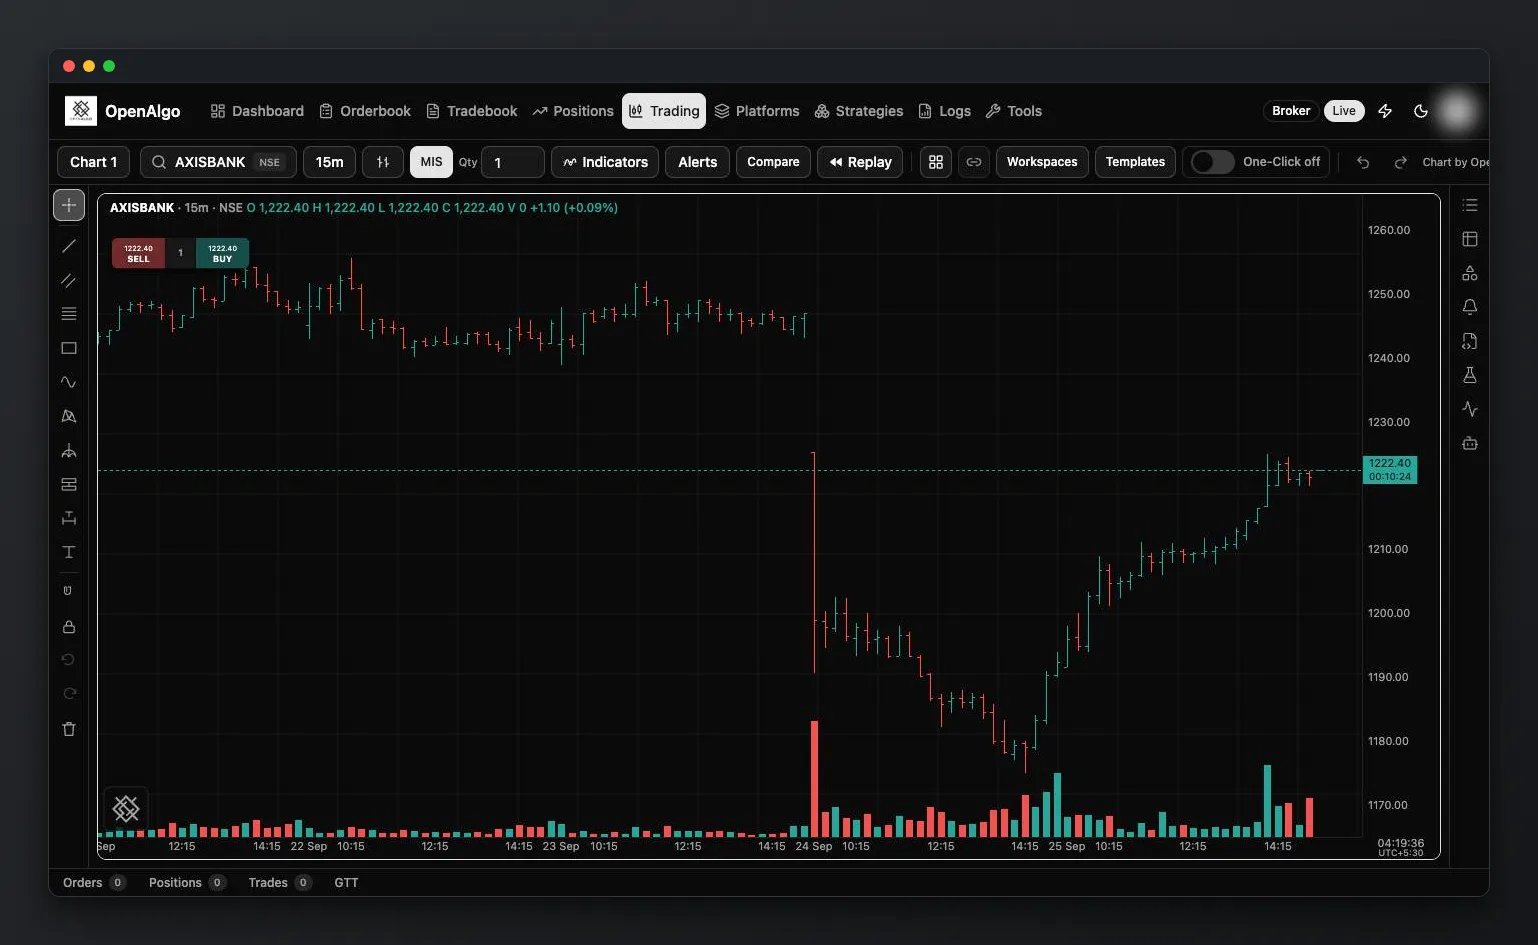
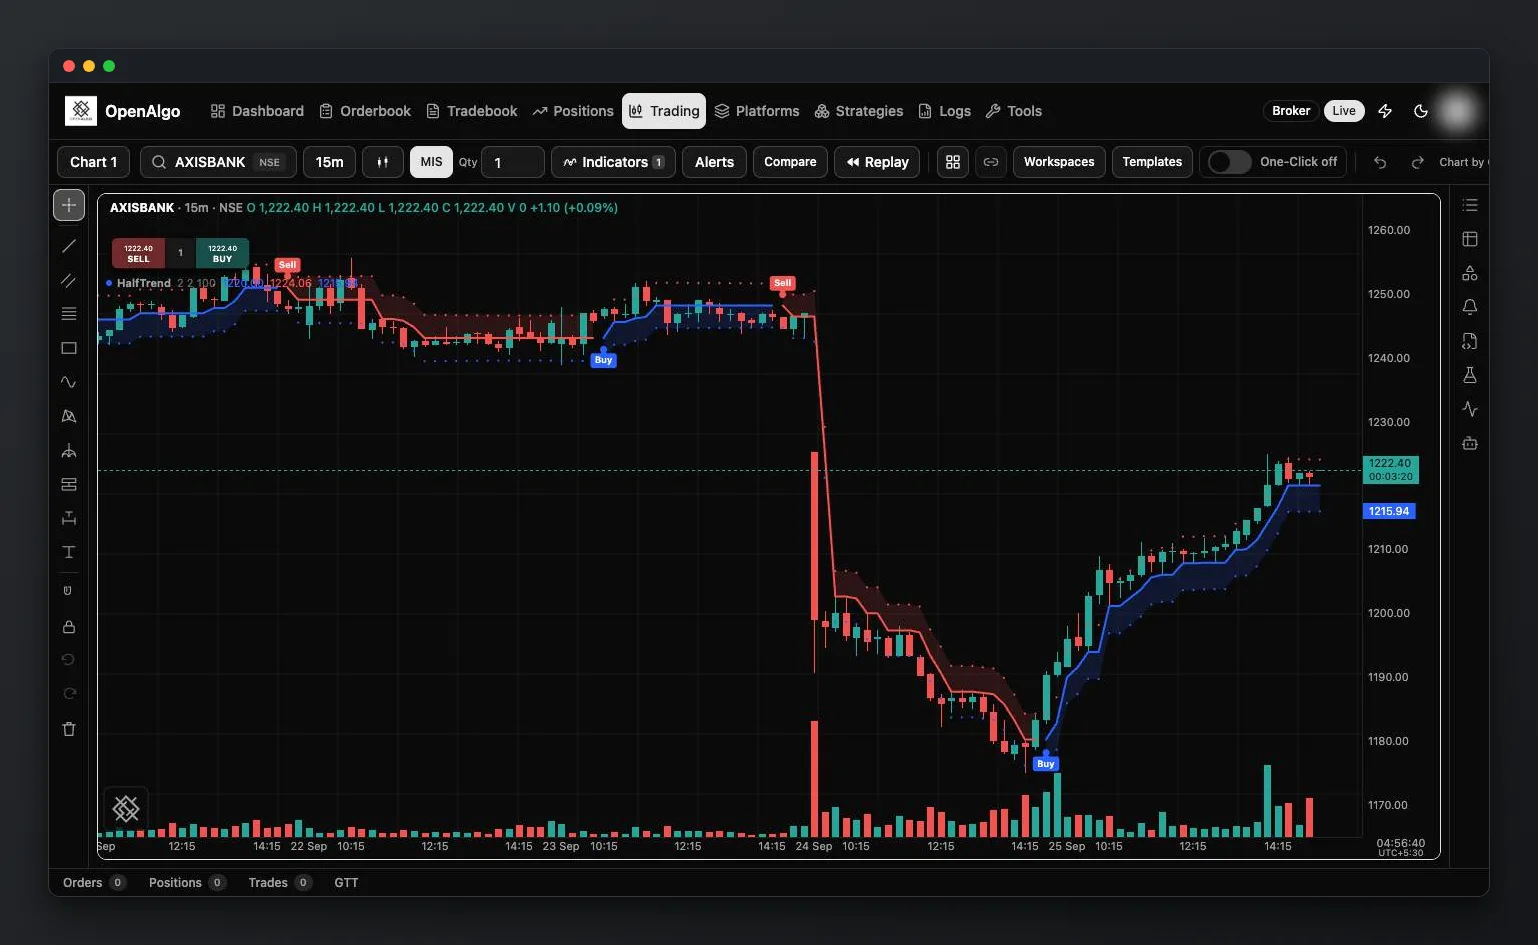
feat: trading terminal screenshot with AXISBANK candles and HalfTrend

diff --git a/app/page.js b/app/page.js
@@ -239,7 +239,7 @@ export default function Home() {
 
             <ProductScreen
               id="trading-terminal"
-              alt="OpenAlgo trading terminal with a candlestick chart, drawing tools and one-click buy and sell"
+              alt="OpenAlgo trading terminal showing AXISBANK 15-minute candles with the HalfTrend indicator and its buy and sell signals"
               rounded="rounded-3xl"
               className="mb-6 shadow-sm"
             />
